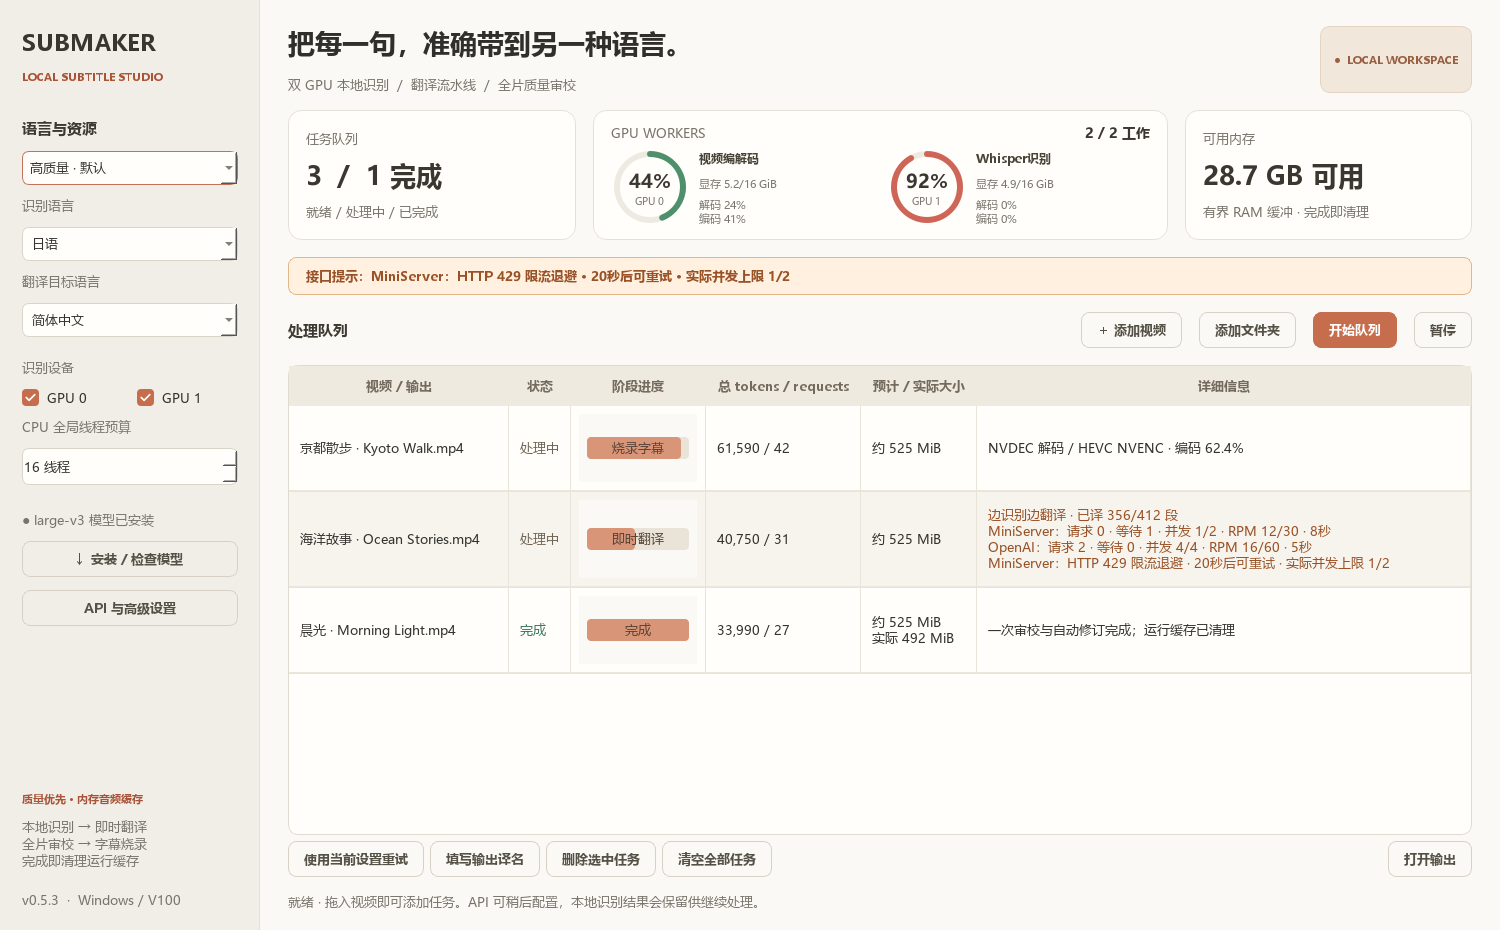
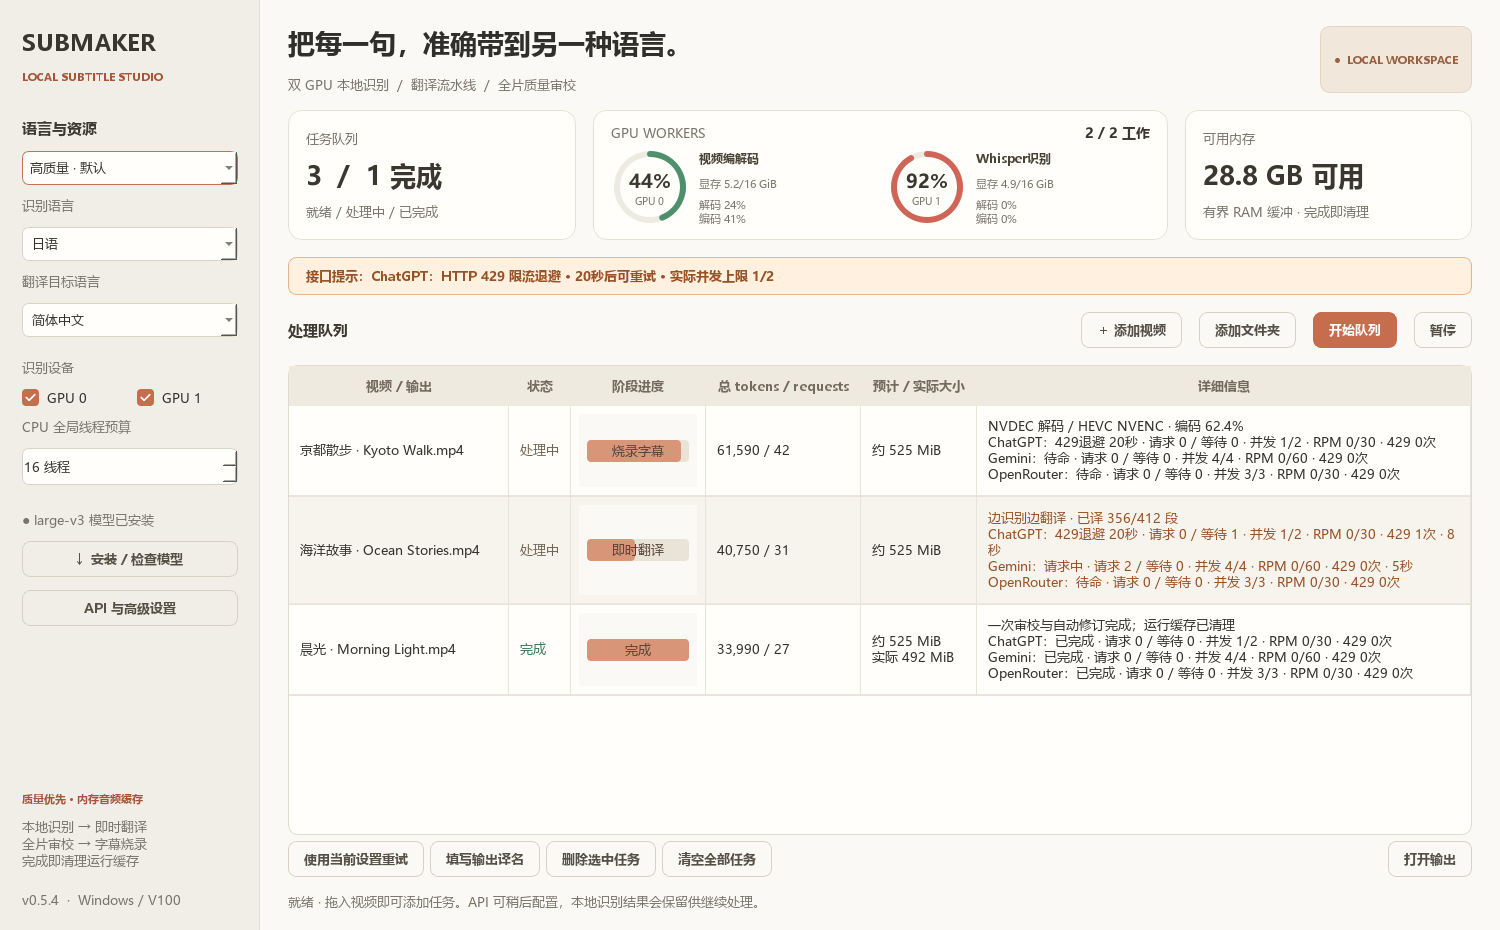
Keep provider status visible and retain historical rate limits

diff --git a/tests/test_provider_details.py b/tests/test_provider_details.py
@@ -1,0 +1,103 @@
+import dataclasses
+import json
+import os
+import time
+
+os.environ.setdefault("QT_QPA_PLATFORM", "offscreen")
+
+from PySide6.QtWidgets import QApplication
+from PySide6.QtCore import QCoreApplication, QEvent
+
+from submaker.config import Profile, Settings
+from submaker.gui import MainWindow
+from submaker.llm import Client, profile_tag
+from submaker.store import Store
+from submaker.telemetry import provider_detail_lines
+
+
+def settings_and_row():
+    settings = Settings(translate=Profile(name="ChatGPT", url="http://localhost/chat", model="chat", concurrency=1, rpm=3), translators=[Profile(name="Gemini", url="http://localhost/gemini", model="gemini", concurrency=5, rpm=10, key_id="gemini"), Profile(name="OpenRouter", url="http://localhost/router", model="router", concurrency=2, rpm=10, key_id="router")])
+    return settings, {"id": "fixture", "state": "处理中", "config": json.dumps(settings.as_dict()), "api_providers": []}
+
+
+def test_enabled_providers_stay_in_place_through_request_idle_and_rpm_wait():
+    settings, row = settings_and_row()
+    client = Client(key_provider=lambda _: "")
+    names = [p.name for p in settings.translation_profiles()]
+    idle = provider_detail_lines(row, quotas=client.quota_snapshot(settings))
+    assert [line.split("：")[0] for line in idle] == names
+    assert all("待命" in line and "429 0次" in line for line in idle)
+    active = [{"profile_id": profile_tag(settings.translate), "profile_name": "ChatGPT", "model": "chat", "phase": "request", "started": time.monotonic()-8}]
+    running = provider_detail_lines(row, active, client.quota_snapshot(settings))
+    assert [line.split("：")[0] for line in running] == names
+    assert "请求中" in running[0] and "8秒" in running[0]
+    quotas = client.quota_snapshot(settings)
+    quotas[1].update(rpm_used=10, rpm_wait_seconds=6)
+    paced = provider_detail_lines(row, quotas=quotas, queued=2)
+    assert [line.split("：")[0] for line in paced] == names
+    assert "RPM节流 6秒" in paced[1] and "RPM 10/10" in paced[1]
+    assert [line.split("：")[0] for line in provider_detail_lines(row)] == names
+
+
+def test_old_gemini_429_is_retained_without_marking_current_config_as_limited():
+    settings, row = settings_and_row()
+    current = settings.translators[0]
+    older = dataclasses.replace(current, model="older-model")
+    row["api_providers"] = [{"profile": profile_tag(current), "name": "Gemini", "state": "success", "rate_limits": 0}, {"profile": profile_tag(older), "name": "Gemini", "state": "rate_limit", "rate_limits": 3, "retry_at": time.time()+30}]
+    lines = provider_detail_lines(row)
+    assert "Gemini：待命" in lines[1] and "429 0次" in lines[1]
+    assert lines[-1].startswith("Gemini（历史配置）：429 3次")
+    assert "当前任务未使用此配置" in lines[-1]
+    assert all("429退避" not in line for line in lines)
+
+
+def test_translation_and_review_profiles_with_same_name_have_separate_activity():
+    settings, row = settings_and_row()
+    settings.review = dataclasses.replace(settings.translators[0], model="review")
+    row["config"] = json.dumps(settings.as_dict())
+    client = Client(key_provider=lambda _: "")
+    activity = [{"profile_id": profile_tag(settings.review), "profile_name": "Gemini", "model": "review", "phase": "request", "started": time.monotonic()}]
+    lines = provider_detail_lines(row, activity, client.quota_snapshot(settings))
+    assert "Gemini：待命 · 请求 0" in lines[1]
+    assert "Gemini（全片审校）：请求中 · 请求 1" in lines[-1]
+
+
+def test_quota_inspection_does_not_resolve_dns_create_gates_or_change_limits(monkeypatch):
+    settings, row = settings_and_row()
+    settings.translate.url = "http://private.invalid/v1"
+    settings.translate.allow_lan_http = True
+    client = Client(key_provider=lambda _: "")
+    monkeypatch.setattr("socket.getaddrinfo", lambda *args, **kwargs: (_ for _ in ()).throw(AssertionError("UI inspection must not resolve DNS")))
+    quotas = client.quota_snapshot(settings)
+    assert len(quotas) == 3 and not client.limits.slots
+    assert quotas[0]["rpm_used"] == 0 and quotas[0]["effective_limit"] == 1
+
+
+def test_task_details_keep_all_enabled_names_after_active_request_disappears(tmp_path, monkeypatch):
+    app = QApplication.instance() or QApplication([])
+    settings, _ = settings_and_row()
+    monkeypatch.setattr(Settings, "load", classmethod(lambda cls: settings))
+    monkeypatch.setattr("submaker.gui.Store", lambda: Store(tmp_path/"jobs.sqlite"))
+    window = MainWindow()
+    try:
+        source = tmp_path/"fixture.mp4"
+        source.write_bytes(b"fixture")
+        job = window.store.add(source, settings)
+        video = {"index": 0, "codec_name": "h264", "codec_type": "video", "pix_fmt": "yuv420p", "bit_rate": "2000000", "width": 1280, "height": 720}
+        window.media_info[job] = {"info": {"video": video, "streams": [video], "duration": 600, "format": {"bit_rate": "2000000"}}}
+        window.scheduler.client.activity_snapshot = lambda: [{"job": job, "profile_id": profile_tag(settings.translate), "profile_name": "ChatGPT", "model": "chat", "phase": "request", "started": time.monotonic()}]
+        window.refresh()
+        assert "ChatGPT：请求中" in window.queue.item(0, 5).text()
+        window.scheduler.client.activity_snapshot = lambda: []
+        window.refresh()
+        text = window.queue.item(0, 5).text()
+        for name in ("ChatGPT", "Gemini", "OpenRouter"):
+            assert text.count(name+"：") == 1
+        assert "ChatGPT：待命" in text
+    finally:
+        window.close()
+        window.store.close()
+        # Destroy the widget cycle on the GUI thread before later HTTP test threads
+        # can trigger Python GC and dispose of Qt objects from a worker thread.
+        window.deleteLater()
+        QCoreApplication.sendPostedEvents(None, QEvent.DeferredDelete)

diff --git a/submaker/gui.py b/submaker/gui.py
@@ -22,7 +22,7 @@ from .llm import Client, endpoint
 from .media import CREATE_NO_WINDOW, estimate_output, probe
 from .pipeline import Scheduler
 from .store import Store
-from .telemetry import GpuMonitor, api_notice, api_provider_records, gpu_details, gpu_role
+from .telemetry import GpuMonitor, api_notice, api_provider_records, gpu_details, gpu_role, provider_detail_lines
 from .gpu_widgets import GpuWorkerStatus
 
 STYLE = """
@@ -1014,23 +1014,8 @@ class MainWindow(QMainWindow):
             self.queue.setItem(i, 4, size_item)
             requests = [r for r in api_activity if r["job"] == row["id"]]
             lines = [row["detail"]]
-            groups = {}
-            for request in requests:
-                groups.setdefault((request.get("profile_name", "API"), request["model"]), []).append(request)
-            for (name, model), active in groups.items():
-                running = sum(r.get("phase", "request") == "request" for r in active)
-                limit = min(r.get("effective_limit", r.get("configured_limit", 0)) for r in active)
-                configured = max(r.get("configured_limit", 0) for r in active)
-                rpm = max(r.get("rpm_limit", 0) for r in active)
-                rpm_used = max(r.get("rpm_used", 0) for r in active)
-                longest = max(int(time.monotonic()-r["started"]) for r in active)
-                quota = f" · RPM {rpm_used}/{rpm}" if rpm else ""
-                lines.append(f"{name}：请求 {running} · 等待 {len(active)-running} · 并发 {limit}/{configured}{quota} · {longest}秒")
-            if self.scheduler.translator.stats(row["id"])["queued"] and hasattr(self.scheduler.client, "quota_snapshot"):
-                for quota in self.scheduler.client.quota_snapshot(Settings.from_dict(json.loads(row["config"]))):
-                    if quota["rpm_wait_seconds"] > 0 and not quota["retry_seconds"]:
-                        wait = int(quota["rpm_wait_seconds"]+.999)
-                        lines.append(f"{quota['name']}：RPM节流 · {wait}秒后可发送 · {quota['rpm_used']}/{quota['rpm_limit']} RPM")
+            quotas = self.scheduler.client.quota_snapshot(Settings.from_dict(json.loads(row["config"]))) if hasattr(self.scheduler.client, "quota_snapshot") else []
+            lines.extend(provider_detail_lines(row, requests, quotas, self.scheduler.translator.stats(row["id"])["queued"]))
             notices = []
             warning = False
             for name, status_row in api_provider_records(row):
@@ -1041,7 +1026,6 @@ class MainWindow(QMainWindow):
                 if limited and notice and not row["state"].startswith("完成"):
                     warnings.append((name+"：" if name else "")+notice)
                     warning = True
-            lines.extend(notices)
             if not notices and requests:
                 last_error = next((r["last_error"] for r in reversed(requests) if r.get("last_error")), "")
                 if last_error:
@@ -1050,11 +1034,12 @@ class MainWindow(QMainWindow):
                 warnings.append(row["detail"])
                 warning = True
             detail = QTableWidgetItem("\n".join(lines))
-            detail.setToolTip("\n".join(lines)+"\n限流可能来自并发、请求频率或token配额。RPM为本进程最近60秒已占用的请求预算，含重试；其他应用的用量无法统计。"+("\n旧版历史限流次数未记录。" if row.get("api_partial") else ""))
+            detail.setToolTip("\n".join(lines)+"\n429次数按当前任务和配置累计；同端点/凭据的冷却、并发与RPM在任务之间共享。\n限流可能来自并发、请求频率或token配额。RPM为本进程最近60秒已占用的请求预算，含重试；其他应用的用量无法统计。"+("\n旧版历史限流次数未记录。" if row.get("api_partial") else ""))
             if warning:
                 detail.setForeground(QColor("#995126"))
             self.queue.setItem(i, 5, detail)
-            self.queue.setRowHeight(i, max(86, min(220, 24+18*len(lines))))
+            wrapped = self.queue.fontMetrics().boundingRect(0, 0, max(120, self.queue.columnWidth(5)-24), 10000, Qt.TextWordWrap, "\n".join(lines)).height()
+            self.queue.setRowHeight(i, max(86, min(440, 24+wrapped)))
             if row["id"] in selected_ids:
                 self.queue.selectionModel().select(self.queue.model().index(i, 0), QItemSelectionModel.SelectionFlag.Select | QItemSelectionModel.SelectionFlag.Rows)
         self.queue.blockSignals(False)

diff --git a/submaker/telemetry.py b/submaker/telemetry.py
@@ -125,3 +125,66 @@ def api_provider_records(row):
         enabled = {profile_tag(p) for p in [*settings.translation_profiles(), settings.review_profile()] if p.url and p.model}
         providers = [p for p in providers if p["profile"] in enabled]
     return [(p["name"], {"api_"+key: value for key, value in p.items()}) for p in providers]
+
+
+def provider_detail_lines(row, activity=(), quotas=(), queued=0, now=None):
+    """One stable row per enabled task profile; retain retired profiles' 429 counts."""
+    now = time.time() if now is None else now
+    settings = Settings.from_dict(json.loads(row.get("config") or "{}"))
+    profiles = [(p, p.name) for p in settings.translation_profiles()]
+    current = {profile_tag(p) for p, _ in profiles}
+    review = settings.review_profile()
+    if review.url and review.model and profile_tag(review) not in current:
+        profiles.append((review, review.name+"（全片审校）"))
+        current.add(profile_tag(review))
+    records = {p["profile"]: p for p in row.get("api_providers", [])}
+    lines = []
+    for profile, name in profiles:
+        tag = profile_tag(profile)
+        record = records.get(tag, {})
+        status = {"api_"+key: value for key, value in record.items()}
+        quota = next((q for q in quotas if q.get("profile") == tag or not q.get("profile") and q.get("name") == profile.name), {})
+        active = [r for r in activity if r.get("profile_id") == tag or not r.get("profile_id") and r.get("profile_name") == profile.name and r.get("model") == profile.model]
+        running = sum(r.get("phase", "request") == "request" for r in active)
+        waiting = len(active)-running
+        retry = max(0, int((quota["retry_seconds"] if "retry_seconds" in quota else record.get("retry_at", 0)-now)+.999))
+        rpm_wait = max(0, int((quota["rpm_wait_seconds"] if "rpm_wait_seconds" in quota else record.get("rpm_ready_at", 0)-now)+.999))
+        limit = quota.get("effective_limit", record.get("effective_limit") or profile.concurrency)
+        rpm = quota.get("rpm_limit", profile.rpm)
+        used = quota.get("rpm_used", record.get("rpm_used", 0) if now-record.get("updated", 0) < 60 else None)
+        fault = quota.get("fault") or (record.get("message") if record.get("state") in ("paused", "quota", "timeout", "server_error") else "")
+        if row.get("state", "").startswith("完成"):
+            state = "已完成"
+        elif fault:
+            state = "额度不足" if "额度不足" in fault else "接口异常"
+        elif retry:
+            state = f"429退避 {retry}秒"
+        elif running:
+            state = "请求中"
+        elif (waiting or queued) and rpm_wait:
+            state = f"RPM节流 {rpm_wait}秒"
+        elif waiting or queued and quota.get("active", 0) >= limit:
+            state = "等待并发名额"
+        elif row.get("state") in ("已暂停", "等待恢复", "等待处理"):
+            state = "任务暂停" if row["state"] != "等待处理" else "任务待处理"
+        else:
+            state = "待命"
+        rpm_text = f"RPM {used if used is not None else '—'}/{rpm}" if rpm else "RPM 不限"
+        count = record.get("rate_limits", 0)
+        line = f"{name}：{state} · 请求 {running} / 等待 {waiting} · 并发 {limit}/{profile.concurrency} · {rpm_text} · 429 {count}次"
+        if active:
+            longest = max(0, int(time.monotonic()-min(r.get("started", time.monotonic()) for r in active)))
+            line += f" · {longest}秒"
+        if fault and not row.get("state", "").startswith("完成"):
+            line += "\n  "+fault
+        lines.append(line)
+    historical = {}
+    for tag, record in records.items():
+        if tag not in current and record.get("rate_limits"):
+            name = record.get("name") or "接口"
+            historical[name] = historical.get(name, 0)+record["rate_limits"]
+    for name, count in sorted(historical.items()):
+        lines.append(f"{name}（历史配置）：429 {count}次 · 当前任务未使用此配置")
+    if not records and (row.get("api_rate_limits") or row.get("api_partial")):
+        lines.append("历史接口记录："+api_notice(row, now))
+    return lines

diff --git a/scripts/render_ui.py b/scripts/render_ui.py
@@ -25,9 +25,9 @@ with tempfile.TemporaryDirectory() as temporary:
     root = Path(temporary)
     store = Store(root / "preview.sqlite")
     settings = Settings()
-    settings.translate.name = "MiniServer"
+    settings.translate.name = "ChatGPT"
     settings.translate.url, settings.translate.model = "https://example.com/v1", "configured-model"
-    settings.translators = [Profile(name="OpenAI", url="https://api.openai.com/v1", model="your-model-id", provider="openai", concurrency=4, rpm=60, key_id="demo-openai"), Profile(name="Google AI", url="https://generativelanguage.googleapis.com/v1beta/openai", model="your-model-id", provider="google", concurrency=3, rpm=30, key_id="demo-google")]
+    settings.translators = [Profile(name="Gemini", url="https://generativelanguage.googleapis.com/v1beta/openai", model="your-model-id", provider="google", concurrency=4, rpm=60, key_id="demo-google"), Profile(name="OpenRouter", url="https://openrouter.ai/api/v1", model="your-model-id", provider="openrouter", concurrency=3, rpm=30, key_id="demo-router")]
     jobs = []
     for name in ("京都散步 · Kyoto Walk.mp4", "海洋故事 · Ocean Stories.mp4", "晨光 · Morning Light.mp4"):
         source = root / name
@@ -35,8 +35,8 @@ with tempfile.TemporaryDirectory() as temporary:
         jobs.append(store.add(source, settings))
     store.update(jobs[0], "处理中", "NVDEC 解码 / HEVC NVENC · 编码 62.4%")
     store.update(jobs[1], "处理中", "边识别边翻译 · 已译 356/412 段")
-    store.record_api(jobs[1], {"profile_id": profile_tag(settings.translate), "profile_name": "MiniServer", "event": "rate_limit", "code": 429, "message": "接口限流", "retry_at": time.time()+20, "effective_limit": 1, "configured_limit": 2})
-    store.record_api(jobs[1], {"profile_id": profile_tag(settings.translators[0]), "profile_name": "OpenAI", "event": "success", "code": 200, "effective_limit": 4, "configured_limit": 4, "rpm_limit": 60, "rpm_used": 16})
+    store.record_api(jobs[1], {"profile_id": profile_tag(settings.translate), "profile_name": "ChatGPT", "event": "rate_limit", "code": 429, "message": "接口限流", "retry_at": time.time()+20, "effective_limit": 1, "configured_limit": 2})
+    store.record_api(jobs[1], {"profile_id": profile_tag(settings.translators[0]), "profile_name": "Gemini", "event": "success", "code": 200, "effective_limit": 4, "configured_limit": 4, "rpm_limit": 60, "rpm_used": 16})
     store.add_usage(jobs[0], {"prompt_tokens": 43120, "completion_tokens": 18470, "total_tokens": 61590})
     store.add_usage(jobs[1], {"prompt_tokens": 28410, "completion_tokens": 12340, "total_tokens": 40750})
     # Sparse design fixture: show a completed output size without generating media.
@@ -67,11 +67,13 @@ with tempfile.TemporaryDirectory() as temporary:
     window.encoding_jobs = {0: jobs[0]}
     window.asr_jobs = {1: jobs[1]}
     window.scheduler.client.activity_snapshot = lambda: [
-        {"job": jobs[1], "profile_name": "MiniServer", "model": "configured-model", "phase": "queued", "started": time.monotonic()-8, "effective_limit": 1, "configured_limit": 2, "rpm_limit": 30, "rpm_used": 12},
-        *[{"job": jobs[1], "profile_name": "OpenAI", "model": "your-model-id", "phase": "request", "started": time.monotonic()-5, "effective_limit": 4, "configured_limit": 4, "rpm_limit": 60, "rpm_used": 16} for _ in range(2)],
+        {"job": jobs[1], "profile_name": "ChatGPT", "model": "configured-model", "phase": "queued", "started": time.monotonic()-8, "effective_limit": 1, "configured_limit": 2, "rpm_limit": 30, "rpm_used": 12},
+        *[{"job": jobs[1], "profile_name": "Gemini", "model": "your-model-id", "phase": "request", "started": time.monotonic()-5, "effective_limit": 4, "configured_limit": 4, "rpm_limit": 60, "rpm_used": 16} for _ in range(2)],
     ]
     window.refresh()
     window.show()
+    app.processEvents()
+    window.refresh()
     for _ in range(4):
         app.processEvents()
         QCoreApplication.sendPostedEvents(None, QEvent.DeferredDelete)

diff --git a/submaker/llm.py b/submaker/llm.py
@@ -289,10 +289,18 @@ class Client:
 
     def quota_snapshot(self, settings):
         rows = []
-        for profile in settings.translation_profiles():
+        seen = set()
+        for profile in [*settings.translation_profiles(), settings.review_profile()]:
+            if not profile.url or not profile.model or profile_tag(profile) in seen:
+                continue
+            seen.add(profile_tag(profile))
             gate = self.limits.peek(profile)
-            if gate:
-                rows.append({"name": profile.name, **gate.snapshot()})
+            snapshot = gate.snapshot() if gate else {"effective_limit": max(1, min(16, profile.concurrency)), "active": 0, "waiting": 0, "retry_seconds": 0, "rpm_limit": profile.rpm, "rpm_used": 0, "rpm_wait_seconds": 0}
+            base = profile.url.strip().rstrip("/")
+            url = base if base.endswith("/chat/completions") else base+"/chat/completions"
+            with self.fault_lock:
+                fault = self.faults.get((url, profile.model, profile.effort, profile.key_id), "")
+            rows.append({"name": profile.name, "profile": profile_tag(profile), "fault": fault, **snapshot})
         return rows
 
     def _notify(self, profile, gate, event, code=0, message="", attempt=0):
@@ -408,7 +416,7 @@ class Client:
                 check(cancel)
                 kind = "翻译" if system.startswith("Translate subtitles") else "审校" if system.startswith("Audit every") else "上下文整理" if system.startswith("Create a concise") else "标题" if system.startswith("Translate only") else "接口测试"
                 with self.activity_lock:
-                    self.activity[activity_id] = {"job": JOB_CONTEXT.get(), "kind": kind, "model": profile.model, "profile_name": profile.name, "attempt": attempt+1, "started": time.monotonic(), "timeout": profile.timeout, "last_error": last_response_error, "phase": "queued", "configured_limit": profile.concurrency, "_gate": semaphore}
+                    self.activity[activity_id] = {"job": JOB_CONTEXT.get(), "kind": kind, "model": profile.model, "profile_name": profile.name, "profile_id": profile_tag(profile), "attempt": attempt+1, "started": time.monotonic(), "timeout": profile.timeout, "last_error": last_response_error, "phase": "queued", "configured_limit": profile.concurrency, "_gate": semaphore}
                 self._notify(profile, semaphore, "queued", attempt=attempt+1)
                 if attempt == 0 and reservation:
                     reservation.consumed = True

diff --git a/tests/conftest.py b/tests/conftest.py
@@ -1,0 +1,24 @@
+import gc
+import os
+
+import pytest
+
+os.environ.setdefault("QT_QPA_PLATFORM", "offscreen")
+
+
+@pytest.fixture(scope="session")
+def qt_application():
+    from PySide6.QtWidgets import QApplication
+    app = QApplication.instance() or QApplication([])
+    yield app
+
+
+@pytest.fixture(autouse=True)
+def dispose_test_widgets_on_gui_thread(qt_application):
+    """Keep Qt alive and collect closed widget cycles before HTTP workers run GC."""
+    yield
+    from PySide6.QtCore import QCoreApplication, QEvent
+    for widget in qt_application.topLevelWidgets():
+        widget.deleteLater()
+    QCoreApplication.sendPostedEvents(None, QEvent.DeferredDelete)
+    gc.collect()

diff --git a/submaker/__init__.py b/submaker/__init__.py
@@ -1,1 +1,1 @@
-__version__ = "0.5.3"
+__version__ = "0.5.4"

diff --git a/PLAN.md b/PLAN.md
@@ -22,6 +22,7 @@
   - 文件名翻译固定使用全片审校接口，不再独立配置；上下文与审校共用此接口，修正使用翻译池
   - API默认并发2、超时300s；有限重试、限流退避，不静默丢弃effort
   - 每接口并发1至16、默认30 RPM（0不限），均匀发送并限制滚动60秒预算，重试也计入；同端点/凭据引用共享较低额度
+  - 任务启用的接口在详细信息固定显示，待命时也保留；翻译与独立审校配置区分，旧配置的429以历史记录保留
   - 429共享冷却、临时降并发与渐进恢复，逐接口显示倒计时/实际上限/已知次数；额度不足暂停对应接口，其他已启用接口继续，池无可用接口才暂停任务
   - 等待首发RPM的批次留在公平队列，不占用HTTP线程；总线程按启用池需求扩展，最多128
 - 队列与资源
